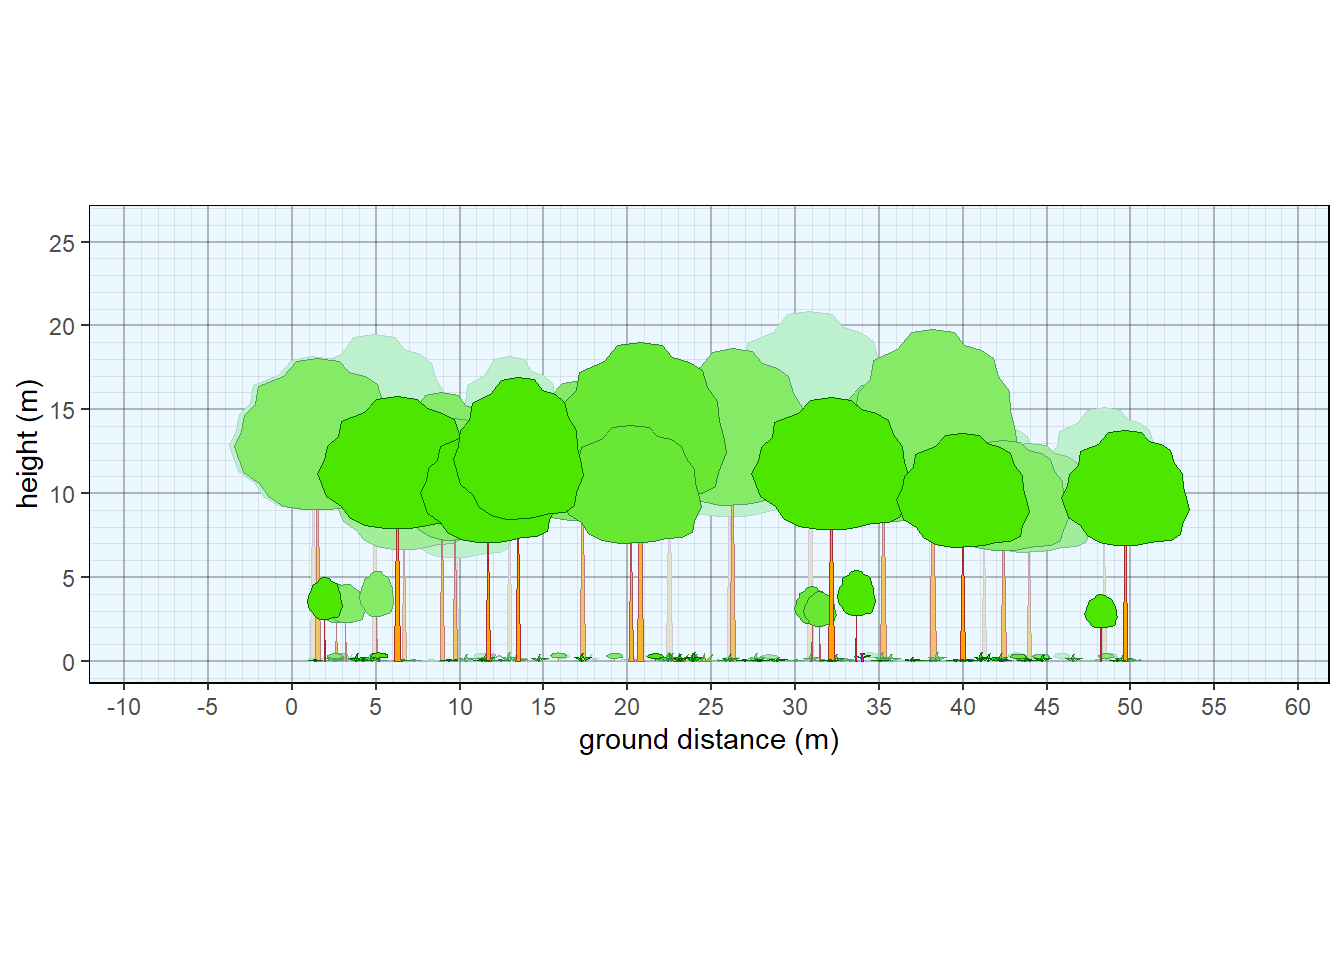
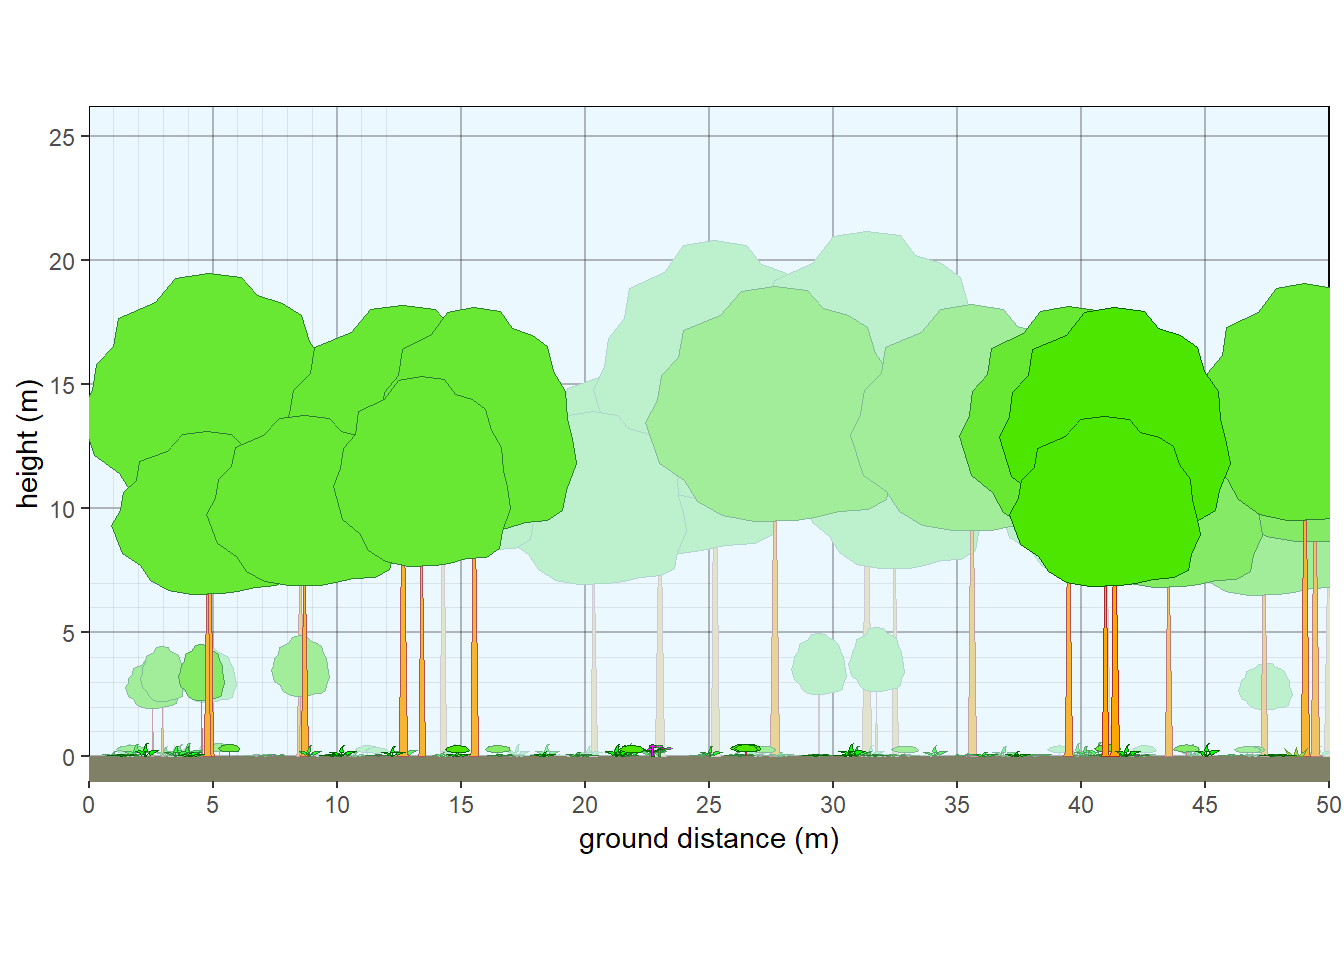
Update to show more parmeters to set graph xylimits.

diff --git a/docs/vegetation-plant-profile-diagrams.html b/docs/vegetation-plant-profile-diagrams.html
@@ -23,7 +23,7 @@
 <meta name="author" content="Greg J. Schmidt" />
 
 
-<meta name="date" content="2023-04-04" />
+<meta name="date" content="2023-04-05" />
 
   <meta name="viewport" content="width=device-width, initial-scale=1" />
   <meta name="apple-mobile-web-app-capable" content="yes" />
@@ -248,7 +248,7 @@ div.csl-indent {
 <div id="vegetation-plant-profile-diagrams" class="section level1 hasAnchor" number="7">
 <h1><span class="header-section-number">Chapter 7</span> Vegetation Plant Profile Diagrams<a href="vegetation-plant-profile-diagrams.html#vegetation-plant-profile-diagrams" class="anchor-section" aria-label="Anchor link to header"></a></h1>
 <p>The reason vegnasis package was created in the first place is to generate pictorial drawings of vegetation structure using plant shapes. Currently, only the most basic shapes have been developed as a proof of concept: generic broadleaf, conifer, shrub, forb, graminoid, palm, and fern. Over time, it is expected that more templates would be drawn in <a href="https://inkscape.org/">Inkscape</a> or similar vector drawing software, and converted to xy coordinates that can be plotted with the <a href="https://ggplot2.tidyverse.org/">ggplot2</a> package. The graphical function simply uses the geom_polygon() element within ggplot to draw individual plants, with colors fading with distance to simulate depth.</p>
-<p>Before plotting any veg plot data, it first needs to be standardized with vegnasis::clean.veg() or vegnasis::pre.fill.veg(). It is highly recommended to limit data to a single plot before processing with vegnasis::prepare_strata(), which will create the elements needed to draw the plants with the vegnasis::veg_profile_plot() function.</p>
+<p>Before plotting any veg plot data, it first needs to be standardized with vegnasis::clean.veg() or vegnasis::pre.fill.veg(). It is highly recommended to limit data to a single plot before processing with vegnasis::grow_plants(), which will create the elements needed to draw the plants with the vegnasis::veg_profile_plot() function.</p>
 <div id="data-processing-2" class="section level2 hasAnchor" number="7.1">
 <h2><span class="header-section-number">7.1</span> Data Processing<a href="vegetation-plant-profile-diagrams.html#data-processing-2" class="anchor-section" aria-label="Anchor link to header"></a></h2>
 <div class="sourceCode" id="cb25"><pre class="sourceCode r"><code class="sourceCode r"><span id="cb25-1"><a href="vegetation-plant-profile-diagrams.html#cb25-1" aria-hidden="true" tabindex="-1"></a><span class="co"># remotes::install_github(&quot;phytoclast/vegnasis&quot;, dependencies = FALSE)</span></span>
@@ -258,14 +258,14 @@ div.csl-indent {
 <span id="cb25-5"><a href="vegetation-plant-profile-diagrams.html#cb25-5" aria-hidden="true" tabindex="-1"></a>veg.raw <span class="ot">&lt;-</span>  vegnasis<span class="sc">::</span>nasis.veg</span>
 <span id="cb25-6"><a href="vegetation-plant-profile-diagrams.html#cb25-6" aria-hidden="true" tabindex="-1"></a>veg <span class="ot">&lt;-</span> <span class="fu">clean.veg</span>(veg.raw)</span>
 <span id="cb25-7"><a href="vegetation-plant-profile-diagrams.html#cb25-7" aria-hidden="true" tabindex="-1"></a>veg.select <span class="ot">&lt;-</span> <span class="fu">subset</span>(veg,  <span class="fu">grepl</span>(<span class="st">&#39;2022MI165021.P&#39;</span>,plot))</span>
-<span id="cb25-8"><a href="vegetation-plant-profile-diagrams.html#cb25-8" aria-hidden="true" tabindex="-1"></a>plants <span class="ot">&lt;-</span> <span class="fu">prepare_strata</span>(veg.select)</span></code></pre></div>
+<span id="cb25-8"><a href="vegetation-plant-profile-diagrams.html#cb25-8" aria-hidden="true" tabindex="-1"></a>plants <span class="ot">&lt;-</span> <span class="fu">grow_plants</span>(veg.select)</span></code></pre></div>
 </div>
 <div id="plot-plant-profiles" class="section level2 hasAnchor" number="7.2">
 <h2><span class="header-section-number">7.2</span> Plot Plant Profiles<a href="vegetation-plant-profile-diagrams.html#plot-plant-profiles" class="anchor-section" aria-label="Anchor link to header"></a></h2>
 <div id="northern-michigan-conifer-forest" class="section level3 hasAnchor" number="7.2.1">
 <h3><span class="header-section-number">7.2.1</span> Northern Michigan conifer forest<a href="vegetation-plant-profile-diagrams.html#northern-michigan-conifer-forest" class="anchor-section" aria-label="Anchor link to header"></a></h3>
 <div class="sourceCode" id="cb26"><pre class="sourceCode r"><code class="sourceCode r"><span id="cb26-1"><a href="vegetation-plant-profile-diagrams.html#cb26-1" aria-hidden="true" tabindex="-1"></a>veg.select <span class="ot">&lt;-</span> <span class="fu">subset</span>(veg,  <span class="fu">grepl</span>(<span class="st">&#39;2022MI165021.P&#39;</span>,plot))</span>
-<span id="cb26-2"><a href="vegetation-plant-profile-diagrams.html#cb26-2" aria-hidden="true" tabindex="-1"></a>plants <span class="ot">&lt;-</span> <span class="fu">prepare_strata</span>(veg.select)</span>
+<span id="cb26-2"><a href="vegetation-plant-profile-diagrams.html#cb26-2" aria-hidden="true" tabindex="-1"></a>plants <span class="ot">&lt;-</span> <span class="fu">grow_plants</span>(veg.select)</span>
 <span id="cb26-3"><a href="vegetation-plant-profile-diagrams.html#cb26-3" aria-hidden="true" tabindex="-1"></a></span>
 <span id="cb26-4"><a href="vegetation-plant-profile-diagrams.html#cb26-4" aria-hidden="true" tabindex="-1"></a><span class="fu">veg_profile_plot</span>(plants)</span></code></pre></div>
 <div class="figure"><span style="display:block;" id="fig:unnamed-chunk-19"></span>
@@ -278,7 +278,7 @@ Figure 7.1: Structure of northern Michigan conifer forest.
 <div id="northern-michigan-hardwood-forest" class="section level3 hasAnchor" number="7.2.2">
 <h3><span class="header-section-number">7.2.2</span> Northern Michigan hardwood forest<a href="vegetation-plant-profile-diagrams.html#northern-michigan-hardwood-forest" class="anchor-section" aria-label="Anchor link to header"></a></h3>
 <div class="sourceCode" id="cb27"><pre class="sourceCode r"><code class="sourceCode r"><span id="cb27-1"><a href="vegetation-plant-profile-diagrams.html#cb27-1" aria-hidden="true" tabindex="-1"></a>veg.select <span class="ot">&lt;-</span> <span class="fu">subset</span>(veg,  <span class="fu">grepl</span>(<span class="st">&#39;2022MI165002.P&#39;</span>,plot))</span>
-<span id="cb27-2"><a href="vegetation-plant-profile-diagrams.html#cb27-2" aria-hidden="true" tabindex="-1"></a>plants <span class="ot">&lt;-</span> <span class="fu">prepare_strata</span>(veg.select)</span>
+<span id="cb27-2"><a href="vegetation-plant-profile-diagrams.html#cb27-2" aria-hidden="true" tabindex="-1"></a>plants <span class="ot">&lt;-</span> <span class="fu">grow_plants</span>(veg.select)</span>
 <span id="cb27-3"><a href="vegetation-plant-profile-diagrams.html#cb27-3" aria-hidden="true" tabindex="-1"></a></span>
 <span id="cb27-4"><a href="vegetation-plant-profile-diagrams.html#cb27-4" aria-hidden="true" tabindex="-1"></a><span class="fu">veg_profile_plot</span>(plants)</span></code></pre></div>
 <div class="figure"><span style="display:block;" id="fig:unnamed-chunk-20"></span>
@@ -301,7 +301,7 @@ Figure 7.3: Structure of a northern Michigan forest (transformed).
 <div id="northern-michigan-mixed-forest" class="section level3 hasAnchor" number="7.2.4">
 <h3><span class="header-section-number">7.2.4</span> Northern Michigan mixed forest<a href="vegetation-plant-profile-diagrams.html#northern-michigan-mixed-forest" class="anchor-section" aria-label="Anchor link to header"></a></h3>
 <div class="sourceCode" id="cb29"><pre class="sourceCode r"><code class="sourceCode r"><span id="cb29-1"><a href="vegetation-plant-profile-diagrams.html#cb29-1" aria-hidden="true" tabindex="-1"></a>veg.select <span class="ot">&lt;-</span> <span class="fu">subset</span>(veg,  <span class="fu">grepl</span>(<span class="st">&#39;2022MI165023.P&#39;</span>,plot))</span>
-<span id="cb29-2"><a href="vegetation-plant-profile-diagrams.html#cb29-2" aria-hidden="true" tabindex="-1"></a>plants <span class="ot">&lt;-</span> <span class="fu">prepare_strata</span>(veg.select)</span>
+<span id="cb29-2"><a href="vegetation-plant-profile-diagrams.html#cb29-2" aria-hidden="true" tabindex="-1"></a>plants <span class="ot">&lt;-</span> <span class="fu">grow_plants</span>(veg.select)</span>
 <span id="cb29-3"><a href="vegetation-plant-profile-diagrams.html#cb29-3" aria-hidden="true" tabindex="-1"></a></span>
 <span id="cb29-4"><a href="vegetation-plant-profile-diagrams.html#cb29-4" aria-hidden="true" tabindex="-1"></a><span class="fu">veg_profile_plot</span>(plants, <span class="at">unit=</span><span class="st">&#39;m&#39;</span>,  <span class="at">skycolor =</span> <span class="st">&#39;white&#39;</span>, <span class="at">fadecolor =</span> <span class="st">&#39;lightgray&#39;</span>, <span class="at">gridalpha =</span> <span class="fl">0.1</span>, <span class="at">groundcolor =</span> <span class="st">&#39;darkgray&#39;</span>)</span></code></pre></div>
 <div class="figure"><span style="display:block;" id="fig:unnamed-chunk-22"></span>
@@ -314,7 +314,7 @@ Figure 7.4: Structure of northern Michigan mixed forest.
 <div id="washington-conifer-forest" class="section level3 hasAnchor" number="7.2.5">
 <h3><span class="header-section-number">7.2.5</span> Washington conifer forest<a href="vegetation-plant-profile-diagrams.html#washington-conifer-forest" class="anchor-section" aria-label="Anchor link to header"></a></h3>
 <div class="sourceCode" id="cb30"><pre class="sourceCode r"><code class="sourceCode r"><span id="cb30-1"><a href="vegetation-plant-profile-diagrams.html#cb30-1" aria-hidden="true" tabindex="-1"></a>veg.select <span class="ot">&lt;-</span> <span class="fu">subset</span>(veg,  <span class="fu">grepl</span>(<span class="st">&#39;2021WA031024&#39;</span>,plot))</span>
-<span id="cb30-2"><a href="vegetation-plant-profile-diagrams.html#cb30-2" aria-hidden="true" tabindex="-1"></a>plants <span class="ot">&lt;-</span> <span class="fu">prepare_strata</span>(veg.select)</span>
+<span id="cb30-2"><a href="vegetation-plant-profile-diagrams.html#cb30-2" aria-hidden="true" tabindex="-1"></a>plants <span class="ot">&lt;-</span> <span class="fu">grow_plants</span>(veg.select)</span>
 <span id="cb30-3"><a href="vegetation-plant-profile-diagrams.html#cb30-3" aria-hidden="true" tabindex="-1"></a><span class="fu">veg_profile_plot</span>(plants, <span class="at">unit=</span><span class="st">&#39;m&#39;</span>,  <span class="at">skycolor =</span> <span class="st">&#39;white&#39;</span>, <span class="at">fadecolor =</span> <span class="st">&#39;lightgray&#39;</span>, <span class="at">gridalpha =</span> <span class="fl">0.1</span>, <span class="at">groundcolor =</span> <span class="st">&#39;darkgray&#39;</span>)</span></code></pre></div>
 <div class="figure"><span style="display:block;" id="fig:unnamed-chunk-23"></span>
 <img src="vegbook1_files/figure-html/unnamed-chunk-23-1.png" alt="Structure of a Washington conifer forest." width="672" />
@@ -337,8 +337,8 @@ Figure 7.5: Structure of a Washington conifer forest.
 <span id="cb31-9"><a href="vegetation-plant-profile-diagrams.html#cb31-9" aria-hidden="true" tabindex="-1"></a><span class="co">#Identify columns containing data corresponding to standard column names.</span></span>
 <span id="cb31-10"><a href="vegetation-plant-profile-diagrams.html#cb31-10" aria-hidden="true" tabindex="-1"></a>mydata <span class="ot">&lt;-</span> mydata <span class="sc">|&gt;</span> <span class="fu">mutate</span>(<span class="at">taxon=</span>obsspp, <span class="at">cover=</span>abund, <span class="at">plot=</span>obsite, <span class="at">crown.max =</span> hts, <span class="at">dbh.max =</span> dbh)</span>
 <span id="cb31-11"><a href="vegetation-plant-profile-diagrams.html#cb31-11" aria-hidden="true" tabindex="-1"></a>veg <span class="ot">&lt;-</span> mydata <span class="sc">|&gt;</span> <span class="fu">pre.fill.veg</span>()</span>
-<span id="cb31-12"><a href="vegetation-plant-profile-diagrams.html#cb31-12" aria-hidden="true" tabindex="-1"></a>plants <span class="ot">&lt;-</span> <span class="fu">prepare_strata</span>(veg)</span>
-<span id="cb31-13"><a href="vegetation-plant-profile-diagrams.html#cb31-13" aria-hidden="true" tabindex="-1"></a><span class="fu">veg_profile_plot</span>(plants, <span class="at">unit=</span><span class="st">&#39;m&#39;</span>,  <span class="at">skycolor =</span> <span class="fu">rgb</span>(<span class="fl">0.8</span>,<span class="fl">0.98</span>,<span class="dv">1</span>), <span class="at">fadecolor =</span> <span class="st">&#39;lightgray&#39;</span>, <span class="at">gridalpha =</span> <span class="fl">0.1</span>, <span class="at">groundcolor =</span> <span class="fu">rgb</span>(<span class="fl">0.55</span>,<span class="fl">0.45</span>,<span class="fl">0.2</span>))</span></code></pre></div>
+<span id="cb31-12"><a href="vegetation-plant-profile-diagrams.html#cb31-12" aria-hidden="true" tabindex="-1"></a>plants <span class="ot">&lt;-</span> <span class="fu">grow_plants</span>(veg, <span class="at">plength=</span><span class="dv">100</span>) <span class="co">#Grow more plants on a longer 100 m plot (default was 50 m).</span></span>
+<span id="cb31-13"><a href="vegetation-plant-profile-diagrams.html#cb31-13" aria-hidden="true" tabindex="-1"></a><span class="fu">veg_profile_plot</span>(plants, <span class="at">unit=</span><span class="st">&#39;m&#39;</span>,  <span class="at">skycolor =</span> <span class="fu">rgb</span>(<span class="fl">0.8</span>,<span class="fl">0.98</span>,<span class="dv">1</span>), <span class="at">fadecolor =</span> <span class="st">&#39;lightgray&#39;</span>, <span class="at">gridalpha =</span> <span class="fl">0.1</span>, <span class="at">groundcolor =</span> <span class="fu">rgb</span>(<span class="fl">0.55</span>,<span class="fl">0.45</span>,<span class="fl">0.2</span>), <span class="at">xlim=</span><span class="fu">c</span>(<span class="dv">0</span>,<span class="dv">100</span>))</span></code></pre></div>
 <div class="figure"><span style="display:block;" id="fig:unnamed-chunk-24"></span>
 <img src="vegbook1_files/figure-html/unnamed-chunk-24-1.png" alt="Structure of a generic oak savanna" width="672" />
 <p class="caption">

diff --git a/docs/index.html b/docs/index.html
@@ -23,7 +23,7 @@
 <meta name="author" content="Greg J. Schmidt" />
 
 
-<meta name="date" content="2023-04-04" />
+<meta name="date" content="2023-04-05" />
 
   <meta name="viewport" content="width=device-width, initial-scale=1" />
   <meta name="apple-mobile-web-app-capable" content="yes" />
@@ -248,7 +248,7 @@ div.csl-indent {
 <div id="header">
 <h1 class="title">Essentials of Vegetation Data</h1>
 <p class="author"><em>Greg J. Schmidt</em></p>
-<p class="date"><em>2023-04-04</em></p>
+<p class="date"><em>2023-04-05</em></p>
 </div>
 <div id="what-is-vegetation" class="section level1 hasAnchor" number="1">
 <h1><span class="header-section-number">Chapter 1</span> What is Vegetation?<a href="index.html#what-is-vegetation" class="anchor-section" aria-label="Anchor link to header"></a></h1>

diff --git a/docs/404.html b/docs/404.html
@@ -23,7 +23,7 @@
 <meta name="author" content="Greg J. Schmidt" />
 
 
-<meta name="date" content="2023-04-04" />
+<meta name="date" content="2023-04-05" />
 
   <meta name="viewport" content="width=device-width, initial-scale=1" />
   <meta name="apple-mobile-web-app-capable" content="yes" />

diff --git a/docs/composition.html b/docs/composition.html
@@ -23,7 +23,7 @@
 <meta name="author" content="Greg J. Schmidt" />
 
 
-<meta name="date" content="2023-04-04" />
+<meta name="date" content="2023-04-05" />
 
   <meta name="viewport" content="width=device-width, initial-scale=1" />
   <meta name="apple-mobile-web-app-capable" content="yes" />

diff --git a/docs/references.html b/docs/references.html
@@ -23,7 +23,7 @@
 <meta name="author" content="Greg J. Schmidt" />
 
 
-<meta name="date" content="2023-04-04" />
+<meta name="date" content="2023-04-05" />
 
   <meta name="viewport" content="width=device-width, initial-scale=1" />
   <meta name="apple-mobile-web-app-capable" content="yes" />

diff --git a/docs/sampling-intensity.html b/docs/sampling-intensity.html
@@ -23,7 +23,7 @@
 <meta name="author" content="Greg J. Schmidt" />
 
 
-<meta name="date" content="2023-04-04" />
+<meta name="date" content="2023-04-05" />
 
   <meta name="viewport" content="width=device-width, initial-scale=1" />
   <meta name="apple-mobile-web-app-capable" content="yes" />

diff --git a/docs/structure.html b/docs/structure.html
@@ -23,7 +23,7 @@
 <meta name="author" content="Greg J. Schmidt" />
 
 
-<meta name="date" content="2023-04-04" />
+<meta name="date" content="2023-04-05" />
 
   <meta name="viewport" content="width=device-width, initial-scale=1" />
   <meta name="apple-mobile-web-app-capable" content="yes" />

diff --git a/docs/vegetation-analysis.html b/docs/vegetation-analysis.html
@@ -23,7 +23,7 @@
 <meta name="author" content="Greg J. Schmidt" />
 
 
-<meta name="date" content="2023-04-04" />
+<meta name="date" content="2023-04-05" />
 
   <meta name="viewport" content="width=device-width, initial-scale=1" />
   <meta name="apple-mobile-web-app-capable" content="yes" />

diff --git a/docs/vegetation-databases.html b/docs/vegetation-databases.html
@@ -23,7 +23,7 @@
 <meta name="author" content="Greg J. Schmidt" />
 
 
-<meta name="date" content="2023-04-04" />
+<meta name="date" content="2023-04-05" />
 
   <meta name="viewport" content="width=device-width, initial-scale=1" />
   <meta name="apple-mobile-web-app-capable" content="yes" />
